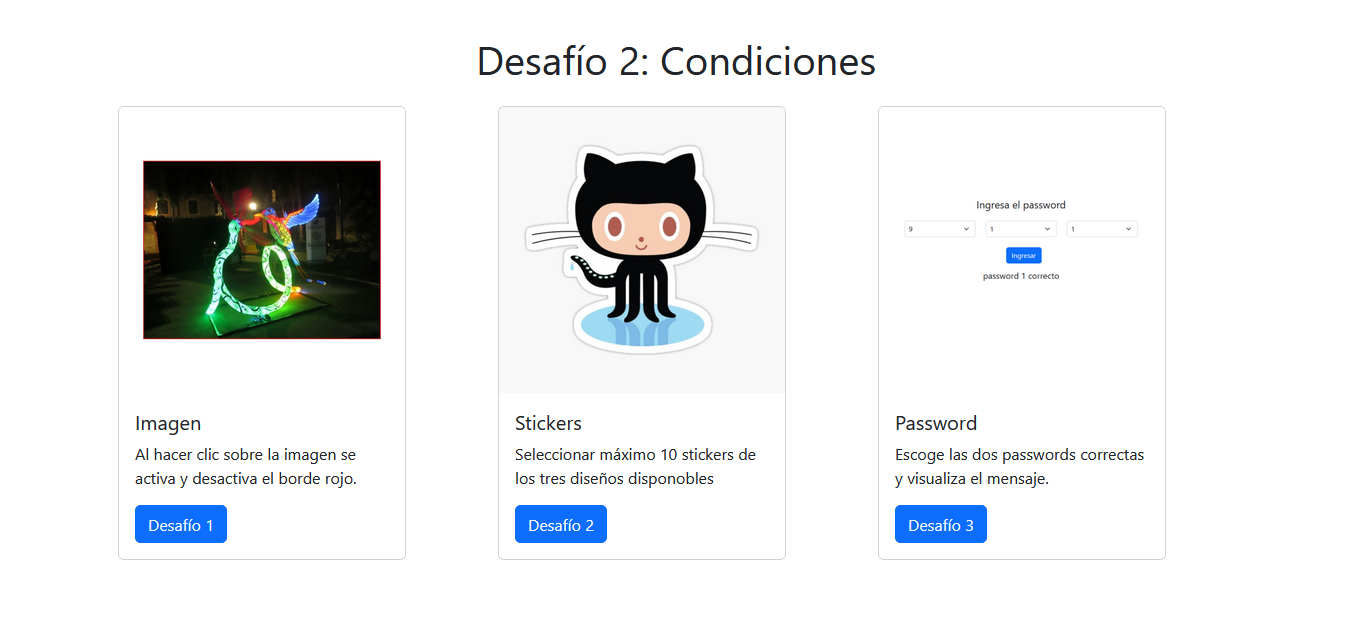
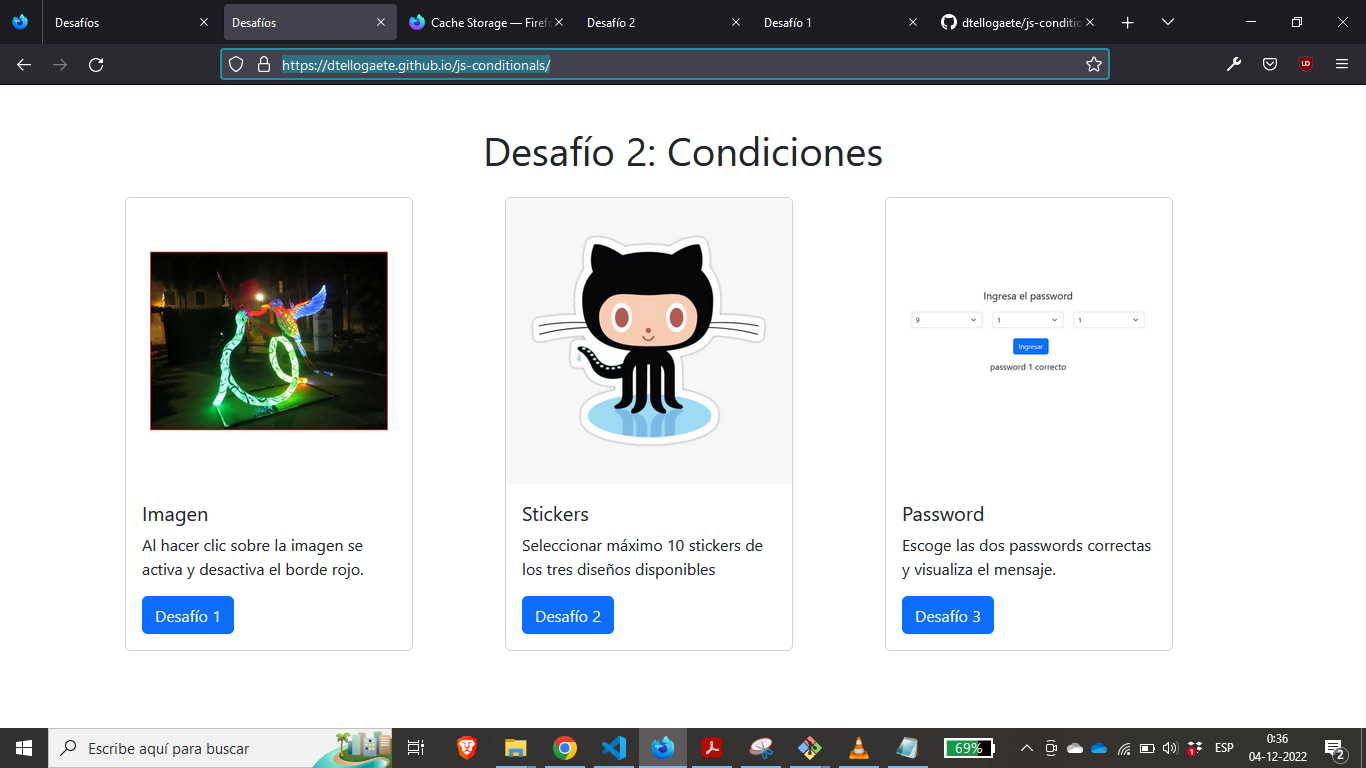
update photos readme

diff --git a/README.md b/README.md
@@ -1,6 +1,6 @@
 # Desafío 2: Condiciones
 
-![Condiciones](/assets/img/df-1.png "Condiciones")
+![Condiciones](/assets/img/df-main.png "Condiciones")
 
 ## Desafío Parte 1
 
@@ -20,7 +20,7 @@ Eventos:
 
 ## Desafío Parte 3
 
-![Parte 3](/assets/img/df-2.png "Parte 3")
+![Parte 3](/assets/img/df-3.png "Parte 3")
 
 Ingresa la contraseña correcta y visualiza el mensaje en la etiqueta HTML.
 
